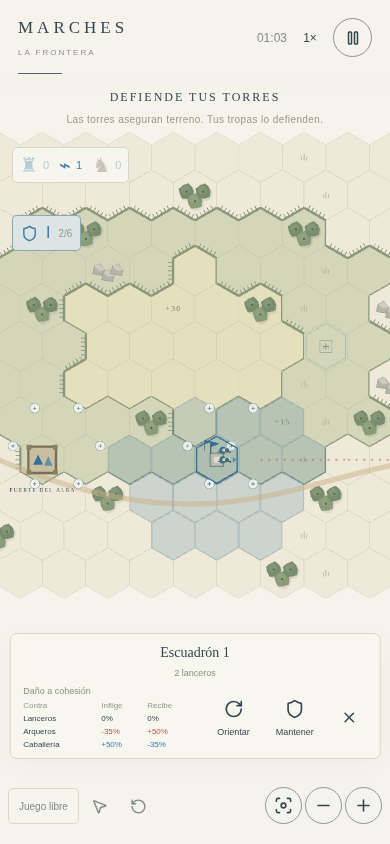
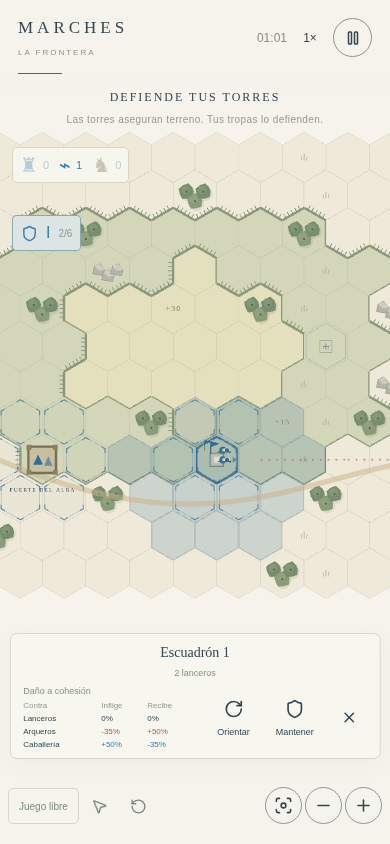
Polish spawn zones direct recruitment and subtle interaction feedback

diff --git a/src/tactics/Board.tsx b/src/tactics/Board.tsx
@@ -1,6 +1,6 @@
 import { troopTypes, troopNames } from "./combat";
 import { outpostInfluence, deploymentError } from "./outpost";
-import { useEffect, useRef, useState } from "react";
+import { useEffect, useRef } from "react";
 import { Application, Container, Graphics, Text } from "pixi.js";
 import { useTactics } from "./state";
 import { R, DX, route, squadPosition, adjacent } from "./model";
@@ -128,10 +128,7 @@ export default function Board() {
   const ref = useRef<HTMLDivElement>(null),
     menuRef = useRef<HTMLDivElement>(null);
   const game = useTactics();
-  const [pickerOpen, setPickerOpen] = useState(false);
-  useEffect(() => {
-    if (game.deployCell === null) setPickerOpen(false);
-  }, [game.deployCell]);
+
   useEffect(() => {
     let dead = false;
     const app = new Application();
@@ -491,6 +488,7 @@ export default function Board() {
         });
       const pointerDown = (e: PointerEvent) => {
         if (e.button !== 0) return;
+        canvas.style.cursor = "grabbing";
         const p = local(e),
           u = hit(p);
         down = {
@@ -505,6 +503,15 @@ export default function Board() {
       };
       const pointerMove = (e: PointerEvent) => {
         hover = cellAt(local(e));
+        const state = useTactics.getState();
+        canvas.style.cursor = down
+          ? "grabbing"
+          : hit(local(e)) ||
+              (b.outpost && hover >= 0 && !deploymentError(b, hover))
+            ? "pointer"
+            : state.selected
+              ? "crosshair"
+              : "grab";
         if (down && Math.hypot(e.clientX - down.x, e.clientY - down.y) > 6) {
           moved = true;
           if (!down.unit)
@@ -528,18 +535,7 @@ export default function Board() {
           s.rotate(Math.atan2(p.y - at.y, p.x - at.x));
         } else if (moved && down.unit && id >= 0) s.move(id);
         else if (!moved) {
-          const plusCell =
-            b.outpost && Object.values(b.outpost.reserve).some((n) => n > 0)
-              ? b.cells.find(
-                  (c) =>
-                    !deploymentError(b, c.id) &&
-                    Math.hypot(p.x - (c.x + 24), p.y - (c.y - 23)) < 10,
-                )
-              : undefined;
-          if (plusCell) {
-            useTactics.setState({ deployCell: plusCell.id });
-            setPickerOpen(true);
-          } else if (u) {
+          if (u) {
             s.select(u.id);
             if (b.outpost && !deploymentError(b, u.cell))
               useTactics.setState({ deployCell: u.cell });
@@ -565,6 +561,7 @@ export default function Board() {
           } else s.select(null);
         }
         down = null;
+        canvas.style.cursor = "grab";
         if (canvas.hasPointerCapture(e.pointerId))
           canvas.releasePointerCapture(e.pointerId);
       };
@@ -587,12 +584,14 @@ export default function Board() {
         };
       };
       const cancel = () => {
+        hover = -1;
         down = null;
       };
       canvas.addEventListener("pointerdown", pointerDown);
       canvas.addEventListener("pointermove", pointerMove);
       canvas.addEventListener("pointerup", pointerUp);
       canvas.addEventListener("pointercancel", cancel);
+      canvas.addEventListener("pointerleave", cancel);
       canvas.addEventListener("wheel", wheel, { passive: false });
       // Cache sector edges; ownership colors are redrawn from simulation state.
       const borders = b.sectors
@@ -618,6 +617,14 @@ export default function Board() {
           )
         : [];
       let lastTerritory = -1;
+      const troopCounts = new Map(
+        b.squads.map((u) => [u.id, u.members.length]),
+      );
+      const deploymentFlashes = new Map<string, number>();
+      const reducedMotion = window.matchMedia(
+        "(prefers-reduced-motion: reduce)",
+      );
+
       app.ticker.add(() => {
         transform();
         const s = useTactics.getState();
@@ -833,22 +840,50 @@ export default function Board() {
           }
         }
         if (b.outpost) {
-          if (Object.values(b.outpost.reserve).some((n) => n > 0))
-            for (const c of b.cells) {
-              if (deploymentError(b, c.id)) continue;
-              const x = c.x + 24,
-                y = c.y - 23;
+          const available = Object.values(b.outpost.reserve).some((n) => n > 0);
+          const reduced = reducedMotion.matches;
+          const sinceArrival = b.time - (b.outpost.nextReinforcement - 30);
+          const pulse =
+            !reduced && sinceArrival >= 0 && sinceArrival < 2
+              ? Math.sin((sinceArrival * Math.PI) / 2) * 0.3
+              : 0;
+          for (const c of b.cells) {
+            if (deploymentError(b, c.id)) continue;
+            const active =
+              s.deployCell === c.id || (!s.selected && hover === c.id);
+            overlay
+              .poly(hex(c.x, c.y, R - 5))
+              .fill({
+                color: BLUE,
+                alpha: active ? 0.13 : 0.025 + pulse * 0.15,
+              })
+              .stroke({
+                color: BLUE,
+                width: active ? 2 : 1,
+                alpha: (available ? 0.35 : 0.16) + pulse,
+              });
+            const points = hex(c.x, c.y, R - 5);
+            for (let k = 0; k < 6; k++) {
+              const j = k * 2,
+                prev = ((k + 5) % 6) * 2,
+                next = ((k + 1) % 6) * 2;
               overlay
-                .circle(x, y, 8)
-                .fill({ color: 0xf5f3ec, alpha: 0.9 })
-                .stroke({ color: BLUE, width: 1, alpha: 0.5 });
-              overlay
-                .moveTo(x - 3, y)
-                .lineTo(x + 3, y)
-                .moveTo(x, y - 3)
-                .lineTo(x, y + 3)
-                .stroke({ color: BLUE, width: 1 });
+                .moveTo(
+                  points[j] + (points[prev] - points[j]) * 0.19,
+                  points[j + 1] + (points[prev + 1] - points[j + 1]) * 0.19,
+                )
+                .lineTo(points[j], points[j + 1])
+                .lineTo(
+                  points[j] + (points[next] - points[j]) * 0.19,
+                  points[j + 1] + (points[next + 1] - points[j + 1]) * 0.19,
+                )
+                .stroke({
+                  color: BLUE,
+                  width: 2,
+                  alpha: available ? 0.65 : 0.28,
+                });
             }
+          }
           territory.clear();
           const control = outpostInfluence(b);
           for (const [id, amount] of control) {
@@ -1061,6 +1096,16 @@ export default function Board() {
         }
         for (const u of b.squads) {
           const p = squadPosition(b, u);
+          const now = performance.now();
+          if ((troopCounts.get(u.id) ?? 0) < u.members.length)
+            deploymentFlashes.set(u.id, now);
+          troopCounts.set(u.id, u.members.length);
+          const age = now - (deploymentFlashes.get(u.id) ?? -10000);
+          if (age < 650 && !reducedMotion.matches)
+            overlay
+              .circle(p.x, p.y, 15 + age / 25)
+              .stroke({ color: BLUE, width: 2, alpha: 0.55 * (1 - age / 650) });
+
           soldiers(overlay, u, p.x, p.y, u.facing);
           morale(u, p.x, p.y, BLUE);
           const a = u.facing;
@@ -1081,6 +1126,7 @@ export default function Board() {
         canvas.removeEventListener("pointermove", pointerMove);
         canvas.removeEventListener("pointerup", pointerUp);
         canvas.removeEventListener("pointercancel", cancel);
+        canvas.removeEventListener("pointerleave", cancel);
         canvas.removeEventListener("wheel", wheel);
         app.destroy(true, { children: true });
       };
@@ -1103,48 +1149,36 @@ export default function Board() {
           className="map-recruit"
           aria-label="Añadir tropas en esta celda"
         >
-          {!pickerOpen ? (
+          <div className="map-recruit-heading">
+            <span>
+              {game.battle.squads.find((u) => u.cell === game.deployCell)
+                ?.members.length ?? 0}
+              /6 · Despliegue
+            </span>
             <button
-              className="map-plus"
-              aria-label="Añadir tropa aquí"
-              onClick={() => setPickerOpen(true)}
+              aria-label="Cerrar tropas disponibles"
+              onClick={() => useTactics.setState({ deployCell: null })}
             >
-              +
+              ×
             </button>
-          ) : (
-            <>
-              <div className="map-recruit-heading">
-                <span>
-                  {game.battle.squads.find((u) => u.cell === game.deployCell)
-                    ?.members.length ?? 0}
-                  /6
-                </span>
-                <button
-                  aria-label="Cerrar tropas disponibles"
-                  onClick={() => useTactics.setState({ deployCell: null })}
-                >
-                  ×
-                </button>
-              </div>
-              {troopTypes.map((type) => (
-                <button
-                  key={type}
-                  aria-label={`Añadir ${troopNames[type]}`}
-                  disabled={
-                    game.battle.outpost!.reserve[type] === 0 ||
-                    !!deploymentError(game.battle, game.deployCell!)
-                  }
-                  onClick={() => game.placeTroop(type)}
-                >
-                  <i className={`reserve-icon ${type}`}>
-                    {type === "shield" ? "♜" : type === "bow" ? "⌁" : "♞"}
-                  </i>
-                  <span>{troopNames[type]}</span>
-                  <b>{game.battle.outpost!.reserve[type]}</b>
-                </button>
-              ))}
-            </>
-          )}
+          </div>
+          {troopTypes.map((type) => (
+            <button
+              key={type}
+              aria-label={`Añadir ${troopNames[type]}`}
+              disabled={
+                game.battle.outpost!.reserve[type] === 0 ||
+                !!deploymentError(game.battle, game.deployCell!)
+              }
+              onClick={() => game.placeTroop(type)}
+            >
+              <i className={`reserve-icon ${type}`}>
+                {type === "shield" ? "♜" : type === "bow" ? "⌁" : "♞"}
+              </i>
+              <span>{troopNames[type]}</span>
+              <b>{game.battle.outpost!.reserve[type]}</b>
+            </button>
+          ))}
         </div>
       )}
     </>

diff --git a/src/tactics/tactics.css b/src/tactics/tactics.css
@@ -663,16 +663,6 @@ button:focus-visible {
   margin-left: auto;
   font-weight: 500;
 }
-.map-recruit .map-plus {
-  font-size: 23px;
-  justify-content: center;
-  width: 32px;
-  min-width: 32px;
-  height: 32px;
-  min-height: 32px;
-  padding: 0;
-  color: #397cac;
-}
 .map-recruit-heading {
   display: flex;
   align-items: center;
@@ -709,5 +699,51 @@ button:focus-visible {
   }
   .map-recruit {
     z-index: 7;
+  }
+}
+
+/* Feedback stays local to the interaction. */
+.tactical-game button {
+  transition:
+    background-color 140ms ease,
+    border-color 140ms ease,
+    opacity 140ms ease;
+}
+.tactical-game button:focus-visible {
+  outline: 2px solid #397cac;
+  outline-offset: 3px;
+}
+.map-recruit {
+  animation: deployment-reveal 150ms ease-out;
+}
+.map-recruit button {
+  min-height: 44px;
+}
+.map-recruit-heading button {
+  min-height: 36px;
+  min-width: 36px;
+}
+.map-recruit button:not(:disabled):hover {
+  background: #397cac16;
+}
+.map-recruit button:disabled {
+  opacity: 0.38;
+  cursor: not-allowed;
+}
+@keyframes deployment-reveal {
+  from {
+    opacity: 0;
+    transform: translateY(4px);
+  }
+  to {
+    opacity: 1;
+    transform: translateY(0);
+  }
+}
+@media (prefers-reduced-motion: reduce) {
+  .tactical-game *,
+  .map-recruit {
+    animation: none !important;
+    transition: none !important;
   }
 }

diff --git a/src/tactics/TacticalApp.tsx b/src/tactics/TacticalApp.tsx
@@ -46,13 +46,18 @@ export default function TacticalApp() {
       }
     }, 25);
     const key = (e: KeyboardEvent) => {
+      if (e.key === "Escape") {
+        useTactics.getState().select(null);
+        (document.activeElement as HTMLElement)?.blur();
+        return;
+      }
       if ((e.target as HTMLElement).closest("button,input")) return;
       const g = useTactics.getState();
       if (e.code === "Space") {
         e.preventDefault();
         useTactics.setState({ paused: !g.paused });
       }
-      if (e.key === "Escape") g.select(null);
+
       if (e.key.toLowerCase() === "r" && g.selected)
         useTactics.setState({ orienting: !g.orienting });
       if (e.key.toLowerCase() === "h")
@@ -121,7 +126,7 @@ export default function TacticalApp() {
               ? s.battle.time < outpost.noticeUntil
                 ? outpost.notice
                 : !s.battle.squads.length
-                  ? "Toca una celda con + junto al cuartel."
+                  ? "Toca una celda azul junto al cuartel."
                   : !outpost.sites.some((site) => site.active)
                     ? "Lleva tu escuadrón a un emplazamiento marcado."
                     : "Las torres aseguran terreno. Tus tropas lo defienden."

diff --git a/README.md b/README.md
@@ -6,13 +6,13 @@ Prototipo de apertura: protege una aldea aliada de una patrulla visible en un ta
 
 Un ciclo continuo sobre el mismo mapa:
 
-1. Tocar una celda con **+** junto al cuartel y elegir un lancero de la reserva para crear un escuadrón.
+1. Tocar una celda delimitada en **azul** junto al cuartel y elegir un lancero de la reserva para crear un escuadrón.
 2. Ordenarle llegar a uno de tres emplazamientos. Permanecer quieto allí construye una torre en seis segundos; salir pausa la construcción.
 3. La torre proyecta control gradualmente durante unos siete segundos sobre hasta dos pasos de terreno conectado. Rocas bloquean; bosque y desnivel consumen más alcance. El control permanece aunque se vaya el constructor.
 4. Doce segundos después de la primera torre aparece una incursión visible desde el este. Puedes interceptarla, defender o abandonar la posición.
 5. Si la patrulla completa el saqueo destruye la torre y su zona de control. El emplazamiento se puede reconstruir.
 
-El primer refuerzo llega a la reserva a los 25 segundos; después, cada 30 segundos, alternando lanceros, arqueros y caballería. La reserva admite 12 unidades. El + del mapa permite formar hasta cinco escuadrones o añadir miembros a uno detenido (máximo seis), junto al cuartel o a una torre asegurada y fuera de combate. Los refuerzos no se despliegan automáticamente. Las patrullas vuelven tras retirarse, con una pausa de 28 segundos. No hay pantallas de victoria, salto de misión ni final automático: puedes seguir expandiendo y defendiendo.
+El primer refuerzo llega a la reserva a los 25 segundos; después, cada 30 segundos, alternando lanceros, arqueros y caballería. La reserva admite 12 unidades. La selección directa de una celda de despliegue permite formar hasta cinco escuadrones o añadir miembros a uno detenido (máximo seis), junto al cuartel o a una torre asegurada y fuera de combate. Los refuerzos no se despliegan automáticamente. Las patrullas vuelven tras retirarse, con una pausa de 28 segundos. No hay pantallas de victoria, salto de misión ni final automático: puedes seguir expandiendo y defendiendo.
 
 «Juego libre» conserva el escenario avanzado de tres frentes; «La frontera» vuelve a este inicio. La campaña por etapas anterior se mantiene en el código y en las pruebas, pero ya no es el flujo predeterminado. El módulo `src/tactics/outpost.ts` contiene construcción, influencia, llegadas y ciclo de incursiones.
 
